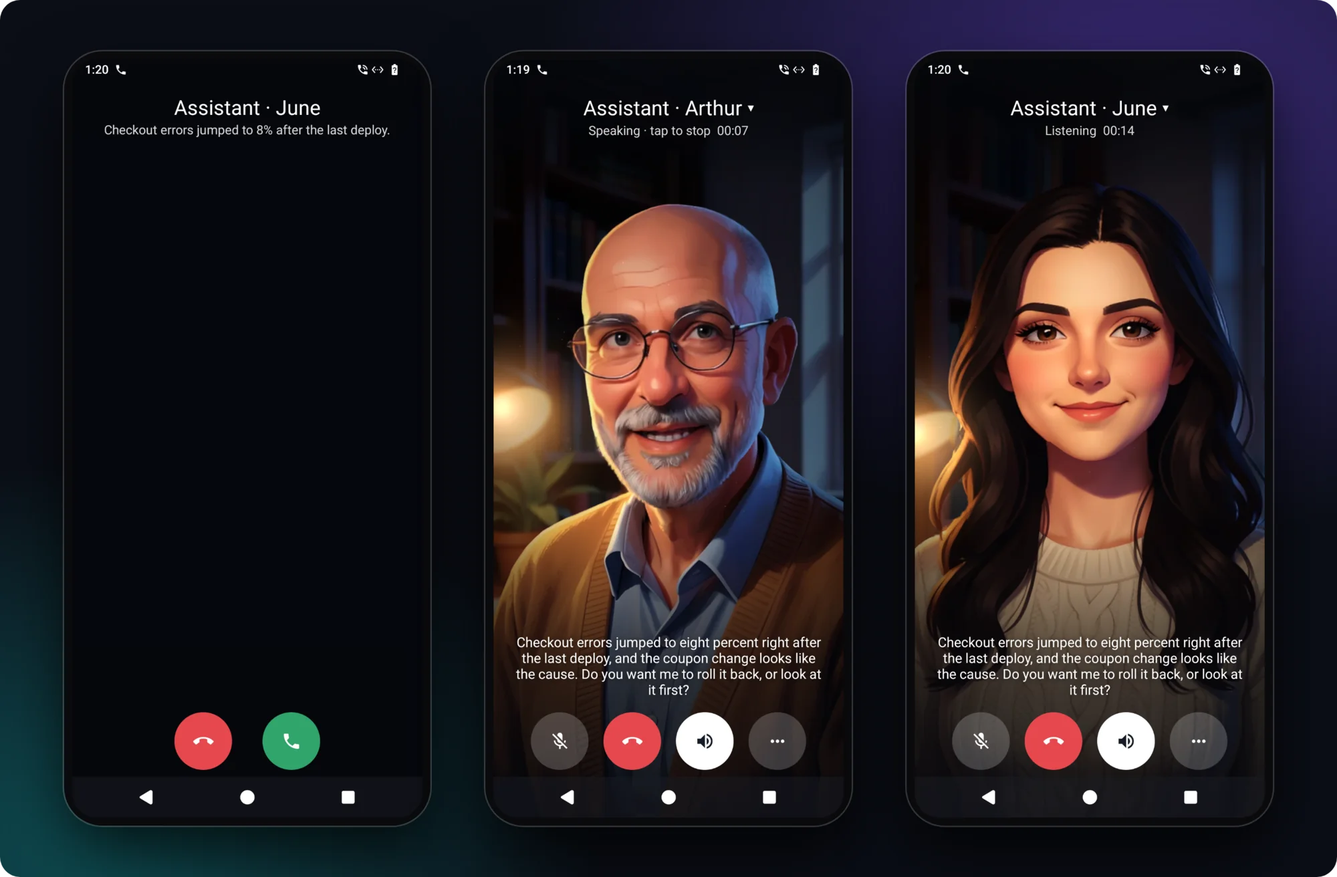
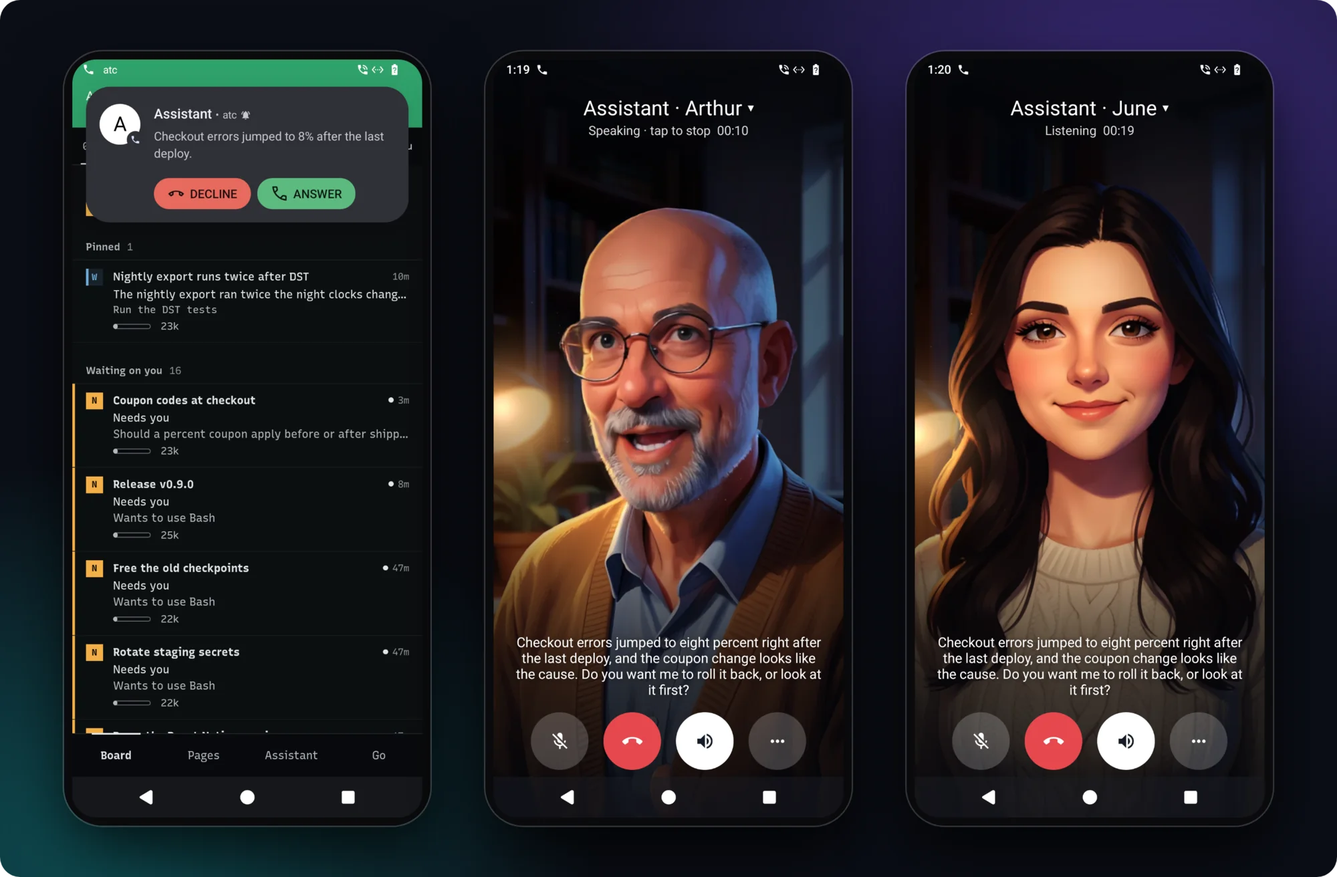
README is organised around what atc does for you: a pitch, the main screen, highlights, then install, as uv, n8n and Claude Squad do; sections follow control of every session, sessions running sessions, the call, agents, bays and pages, each with a caption. The call plays inline as an animated WebP 

diff --git a/test/demo/compose.js b/test/demo/compose.js
@@ -35,7 +35,8 @@ async (page, { raw = "http://127.0.0.1:7440/raw", out = "/tmp/atc-final", modes 
   const layouts = {
     hero: { w: 1320, h: 930, body: (r) => win(`${r}/hero.png`, 20, 20, 1280) },
     fleet: { w: 2300, h: 1400, body: (r) => win(`${r}/fleet.png`, 40, 40, 1560) + win(`${r}/desk.png`, 1000, 300, 1260) + ph(`${r}/ring-headsup.png`, 60, 500, 400) },
-    "call-ring": row(["ring-full", "arthur-2", "june-4"], 56, 400, 60),
+    "call-ring": row(["ring-headsup", "arthur-3", "june-5"], 56, 400, 60),
+    bays: { w: 1320, h: 830, body: (r) => win(`${r}/bays.png`, 20, 20, 1280) },
     assistant: solo("assist-arthur-thinking", 1400, 900),
     board: solo("board", 1560, 1040),
     transcript: solo("transcript", 1560, 1040),

diff --git a/test/demo/shots.js b/test/demo/shots.js
@@ -38,6 +38,14 @@ async (page, { base = "http://127.0.0.1:7399", out = "/tmp/atc-shots", modes = [
       await p.waitForTimeout(500);
       return [[p, "hero"]];
     },
+    // Working in one project with a peek at another: alt+shift+2 is bay 2's sessions, answerable where they are.
+    async bays(mode) {
+      const p = await open(mode, { w: 1280, h: 760 });
+      await to(p, `#/s/${by("Fix the coupon crash").id}`, 2600);
+      await p.keyboard.press("Alt+Shift+Digit2");
+      await p.waitForTimeout(900);
+      return [[p, "bays"]];
+    },
     // The fleet image's front window: @ops's session on the checkout errors and its page.
     async desk(mode) {
       const p = await open(mode, { w: 1760, h: 1000 });

diff --git a/test/demo/film.py b/test/demo/film.py
@@ -1,5 +1,5 @@
 #!/usr/bin/env python3
-"""Cuts callshot.js's recording into the README's film, once film.js has drawn test/demo/beats.json's panels:
+"""Cuts callshot.js's recording into the README's film (an mp4 with sound, and the silent animated WebP the README plays inline), once film.js has drawn test/demo/beats.json's panels:
 film.py <call dir> <film dir: callfilm.py's screen.mp4, events.json> <panels dir> <out prefix>
 
 The audio is the call's call.wav (left the caller, right the assistant, on talk.py's clock) and the phone is the device's
@@ -35,6 +35,8 @@ def cut(call, film, panels, out):
     graph += [f"[{last}]fps=25,format=yuv420p[out]", "[2:a]pan=mono|c0=0.8*c0+0.8*c1,aresample=44100,apad[a]"]
     subprocess.run(["ffmpeg", "-y", "-v", "error", *inputs, "-filter_complex", ";".join(graph), "-map", "[out]", "-map", "[a]",
                     "-c:v", "libx264", "-crf", "25", "-preset", "slow", "-c:a", "aac", "-b:a", "96k", "-movflags", "+faststart", "-t", str(span), f"{out}.mp4"], check=True)
+    subprocess.run(["ffmpeg", "-y", "-v", "error", "-i", f"{out}.mp4", "-vf", "fps=10,scale=1100:-2:flags=lanczos", "-an", "-c:v", "libwebp_anim",
+                    "-quality", "62", "-compression_level", "5", "-loop", "0", f"{out}.webp"], check=True)
 
 
 if __name__ == "__main__":

diff --git a/README.md b/README.md
@@ -1,94 +1,156 @@
 # atc
 
-**Air traffic control for Claude Code.** Every session on every machine, a team of agents working in the background, and an
-assistant you can call on the phone. All of it on your own machines, from a browser, a terminal or your phone.
+**Air traffic control for Claude Code.** Run every session on all your machines from one place, let sessions direct each other, and
+phone an assistant that keeps track of it all.
+
+Past a few parallel sessions, the hard part stops being the work. Which one is waiting on you? What did that one do while you were away?
+Which machine was it on? atc answers those at a glance, at your desk and on your phone. Agents look after
+things like your mail, alerts and invoices, and the assistant picks up when you call and rings you when something can't wait. It all runs
+on your own machines, on your own Claude plan.
 
 <picture>
   <source media="(prefers-color-scheme: dark)" srcset="docs/img/hero-dark.webp">
   <img src="docs/img/hero-light.webp" alt="atc's main screen, one window with three panes. On the left, the sessions of one project with what each did in a line. In the middle, the session Fix the coupon crash: your request, what it did as a short story with one failed test, and the edit as a diff. On the right, the page it made: 8.2% errors at the peak, 231 failed checkouts replayed and all passing, a chart of errors jumping at the deploy and falling at the rollback, and the cause.">
 </picture>
 
+*One project's sessions, what the selected one did, and the page it made. Each session's key and state are on its row.*
+
+- **[Control of every session](#control-of-every-session).** Dozens running on several machines, and you still know what each one needs and did, from any screen.
+- **[Sessions that run other sessions](#sessions-that-run-other-sessions).** They start, ask and hand work to each other, and you can step into any of them.
+- **[An assistant you talk to on the phone](#an-assistant-you-talk-to-on-the-phone).** A natural conversation that can run your sessions, your agents and whatever else you connect it to.
+- **[Agents for your own stuff](#agents-for-your-own-stuff).** Standing specialists that wake up when there's work and remember what they've learned.
+- **[A bay for each project](#a-bay-for-each-project).** Switch projects with one key and land where you left off.
+- **[Pages instead of walls of text](#pages-instead-of-walls-of-text).** A session hands you a live report, chart or inbox with working buttons.
+
 ```sh
 curl -fsSL https://github.com/zcag/atc/releases/latest/download/install.sh | sh
 ```
 
-Linux or macOS, with Claude Code signed in. One install serves one user. [More ways to install](#install).
+Linux or macOS, with Claude Code signed in. One install serves one user. [More on installing](#install).
 
 atc is an independent project. It is not affiliated with or endorsed by Anthropic.
 
-## Every session, wherever you are
+## Control of every session
 
-All your sessions from all your machines in one list, with whatever is waiting on you at the top and a one-line result on each.
-Start one in any folder on any machine, and open any of them from a browser, a terminal or your phone.
+Sessions from all your machines share one board, sorted by who needs you: what is asking you something, then what has finished,
+then what is working. Each finished turn gets a one-line result, so you can tell what happened without opening anything.
 
 <picture>
   <source media="(prefers-color-scheme: dark)" srcset="docs/img/board-dark.webp">
   <img src="docs/img/board-light.webp" alt="The board: sessions from three machines and eleven projects, grouped into pinned, waiting on you, working and parked, each with a status line, context used, steps, what it made and its age.">
 </picture>
 
-The Android app pushes when a session needs you, and you can approve or answer from the notification. Holding the side key opens
-what's waiting, even on the lock screen. Share a link or a screenshot from any app into a session, or see them all on a home
-screen widget.
+*Every session on three machines: what asks you something first, then what finished, then what is working.*
 
-<picture>
-  <source media="(prefers-color-scheme: dark)" srcset="docs/img/phones-dark.webp">
-  <img src="docs/img/phones-light.webp" alt="Four phones. The first shows the screen the side key opens: sessions waiting, one with its question answered by buttons and a text field, others asking to run a command with Allow once and Deny, and a green call button. The second shows a session's prompt, its steps and a small diff above its result. The third shows a finished report with one-tap replies, Push it and Draft the note for support. The fourth shows the report page that session made, with its figures and a chart.">
-</picture>
-
-Back at a desk, read what a session did as a transcript: each prompt and reply with the diffs, test results and commits, and search
-across the whole thing. Likely next messages are one tap away.
+- **Clear what's waiting without opening it.** Permission prompts and questions are answered right in the list, and one key jumps to any session.
+- **Read what happened instead of scrolling a terminal.** A transcript tells each turn as a short story, with diffs, test results, commits and deploys as badges. It searches the whole session and can filter to the turns that failed. Likely next messages are one tap away.
+- **Start work anywhere.** Any folder on any machine, in its own git worktree if you like, from a browser, a terminal or your phone.
+- **Nothing dies with your connection.** Close the tab and the session keeps going. After a reboot, atc brings your sessions back and tells the interrupted ones to continue.
 
 <picture>
   <source media="(prefers-color-scheme: dark)" srcset="docs/img/transcript-dark.webp">
   <img src="docs/img/transcript-light.webp" alt="A session's transcript: a word-level diff of the fix, a card for the page it made, then its report, with suggested replies above the message box.">
 </picture>
 
+*A session's turn as something to read: the diff, the page it made, its report and likely replies.*
+
+Away from your desk you have the same control. Your phone gets a push when a session needs you, and you approve or answer from the
+notification. Holding the side key opens everything that's waiting, even on the lock screen. Share a link or a screenshot from any
+app into a session, and keep your sessions on a home screen widget.
+
+<picture>
+  <source media="(prefers-color-scheme: dark)" srcset="docs/img/phones-dark.webp">
+  <img src="docs/img/phones-light.webp" alt="Four phones. The first shows the screen the side key opens: sessions waiting, one with its question answered by buttons and a text field, others asking to run a command with Allow once and Deny, and a green call button. The second shows a session's prompt, its steps and a small diff above its result. The third shows a finished report with one-tap replies, Push it and Draft the note for support. The fourth shows the report page that session made, with its figures and a chart.">
+</picture>
+
+*The side key's screen with questions answered in place, a session, a report with one-tap replies, and a page.*
+
 [Using atc](docs/using.md) · [Android app](docs/android.md) · [Several machines](docs/machines.md)
 
-## An assistant you can call
+## Sessions that run other sessions
 
-One conversation that can see everything: your sessions, your agents, what just changed. It answers on a phone call, in
-the page and on WhatsApp, and it's the same conversation on all three. Anything urgent can ring you:
+Any session can see your other sessions, read what they did, start new ones on any machine, message them and wait for their answers.
+So you can hand a big job to one session and let it organize the rest:
 
-```sh
-atc call --reason "Checkout errors jumped to 8% after the last deploy"
-```
+- A session changing your API starts another for the iOS client on your laptop, waits for its answer, and carries on.
+- A session that finds a second problem hands it off to a new session in its own worktree, and goes back to what it was doing.
+- A session that needs to know what's open reads it from an agent's list, without waking the agent.
 
-> **Assistant:** Hey, sorry to call. Checkout errors jumped to 8% right after the last deploy, and the coupon change looks like the cause. Do you want me to...
->
-> **You:** Wait, was that the only thing in the deploy?
->
-> **Assistant:** That and a copy fix. The errors all come from the coupon code.
->
-> **You:** Okay, roll it back, and have someone find out why.
->
-> **Assistant:** Rolling back now, and I've started a session on the cause. The iOS build on the laptop just finished too, so that's one less thing.
->
-> **You:** How many orders did we lose?
->
-> **Assistant:** About forty, in eleven minutes. I put the chart on your screen.
+These are not hidden subagents. Each is an ordinary session on your board, which you can open, correct or take over at any point. Every
+message says which session sent it and whether it wants a report back, so nothing has to be pieced together later. A request from
+another session doesn't count as your approval to push, deploy or send. Only the assistant can pass your go-ahead on, because you
+gave it. [What atc does not enforce](docs/security.md#what-atc-does-not-enforce) says where the limits of that are.
+
+Below is one such chain: a Grafana alert woke @ops, which worked out what broke, put the evidence on a page and rang the phone.
+
+<picture>
+  <source media="(prefers-color-scheme: dark)" srcset="docs/img/fleet-dark.webp">
+  <img src="docs/img/fleet-light.webp" alt="atc on a desktop with a lot going on: the board with dozens of sessions across three machines, more than a dozen of them waiting on you, and in front of it @ops's session on the checkout errors with the page it made, a chart of errors jumping to 8% at the last deploy. In front of those, a phone taking an incoming call from Assistant, Checkout errors jumped to 8% after the last deploy, with Decline and Answer buttons.">
+</picture>
+
+*The alert's session and its page behind the phone it rang.*
+
+[Sessions driving sessions](docs/sessions.md)
+
+## An assistant you talk to on the phone
+
+Call it from the app or a browser, with no phone number needed, or let anything that can't wait ring you. The assistant is one long
+conversation, shared with the atc page and WhatsApp, and it already knows the state of every session and machine when you say hello.
+
+<img src="docs/img/call-demo.webp" alt="A recorded call on the real call stack. The phone rings with the reason, Checkout errors jumped to 8% after the last deploy. On the call, June says what happened and is cut off mid-sentence by Wait, was that the only thing in the deploy? She plays a thinking phrase, reads what @ops found and answers. Told to roll it back and have someone find out why, she hands the rollback to one session and starts another on the cause. Asked how many orders were lost, she says about forty and puts the chart on the phone's screen. A panel beside the phone names each thing as it happens.">
+
+*A recorded call, with the transcript and notes beside the phone. [Watch it with sound](docs/img/call-demo.mp4).*
+
+**What you can get done on a call**
+
+- **Ask how things stand** and hear the answer right away, from what it already knows.
+- **Start and steer work.** Start a session on any machine, or tell a running one what to do, in your own words. Say yes to a merge, push or deploy and the session goes ahead without asking you again. Anything long runs on after you hang up, and you hear how it came out.
+- **Talk to a specialist.** Say "put @ops on" and the line moves to that agent (any you have allowed to talk), which knows what you just said. Say "back to the assistant" to return, even in the middle of its work.
+- **See things.** It says the gist and puts the page or chart on your phone's screen while you keep talking.
+- **Reach past atc.** It is a Claude Code conversation on your machine, so it has your command-line tools, scripts and MCP servers. Whatever you've connected them to (mail, calendar, your home) is one sentence away. It reads back and waits for a clear yes before sending, buying or deleting anything.
+
+The one thing it can't do is answer a session's permission prompt. Those still take a tap.
+
+**Why it feels like talking to someone**
+
+- **Cut it off any time.** It stops at once and knows exactly how much of its answer you heard.
+- **Say "mhm" or "right" while it talks.** It carries on, because those words don't count as interrupting.
+- **Pause to think.** A model listens for whether your turn sounds finished, and a sentence left hanging on "and..." keeps the turn open.
+- **No dead air.** It says a short thinking phrase while it starts, and tells you what it's doing and what it has found so far as it goes.
+- **It talks the way people do on the phone.** Short sentences, rounded numbers, no paths or ids read aloud. If a session needs you mid-call, it judges whether that's worth interrupting you for.
+- **Switch language mid-call.** With more than one installed, the voice, the transcriber and the character all change with you.
 
 <picture>
   <source media="(prefers-color-scheme: dark)" srcset="docs/img/call-ring-dark.webp">
-  <img src="docs/img/call-ring-light.webp" alt="Three phones. The first has woken to an incoming call: Assistant, June, with the reason under the name, Checkout errors jumped to 8% after the last deploy, and a red and a green button. The second is on the call with Arthur, a painted professor in glasses and a cardigan in their study, smiling as they speak. The third is on the call with June, a painted woman with long dark hair in a cream sweater, listening. Each has the name and a timer above the face, and what was said below it.">
+  <img src="docs/img/call-ring-light.webp" alt="Three phones. The first is on the session list when the call arrives: Assistant, with the reason under the name, Checkout errors jumped to 8% after the last deploy, and Decline and Answer buttons. The second is on the call with Arthur, a painted professor in glasses and a cardigan in their study, speaking. The third is on the call with June, a painted woman with long dark hair in a cream sweater, listening. Each call has the name and a timer above the face, and what was said below it.">
 </picture>
 
-You can talk over it, and it hears you. It says what it's doing while it works, starts sessions for anything long, and tells you
-how they came out after you've hung up. Calling it needs no phone number, and it runs on your machine on 2 CPU cores.
-[Calls](docs/calls.md) · [A recorded demo call](docs/img/call-demo.mp4) · [The assistant](docs/assistant.md)
+*The ring, then two of the built-in characters speaking and listening. On Android it is a real phone call: it rings on the lock screen and appears in your call log, you answer from Bluetooth or car buttons, it works on Android Auto, and it goes on hold for a SIM call.*
 
-A character stands in a room, which brings its own light, weather and mood, and any picture you upload works as one.
-
-<img src="docs/img/rooms.webp" alt="Arthur and June in five rooms: a night study with a desk lamp, a loft with rain on the window and a neon city outside, a cabin with a fire and snow outside, a library with a green lamp and a violet window, and a sunroom with plants." />
+It runs on your machine on 2 CPU cores: about 3 seconds from when you stop talking to its first word, most of that Claude's first
+token. Streaming speech recognition is the weakest part, so it sometimes has to guess at a word.
 
 <picture>
   <source media="(prefers-color-scheme: dark)" srcset="docs/img/assistant-dark.webp">
   <img src="docs/img/assistant-light.webp" alt="The assistant with a call on. On the left, the conversation: you ask it to find out why checkout is slow and to fix a build on the laptop, it starts both sessions and answers with the numbers, and the sessions it set going are listed under it. On the right, the call: Arthur, a painted professor in their study, thinking with their hand to their chin, and the sessions on this call under them.">
 </picture>
 
-## A team of agents
+*In a browser too: the conversation on the left, the call on the right, and the sessions it started on this call under both.*
 
-An agent is someone you go to for one thing. It keeps its own notes, keeps one long conversation, and wakes up when there's work.
+The character moves with both voices as it listens, thinks and speaks. Pick who the assistant is, give an agent its own person, voice and room, or use any picture you upload as a room. In public, a plain line or bars replace the face.
+
+<img src="docs/img/rooms.webp" alt="Arthur and June in five rooms: a night study with a desk lamp, a loft with rain on the window and a neon city outside, a cabin with a fire and snow outside, a library with a green lamp and a violet window, and a sunroom with plants." />
+
+[Calls](docs/calls.md) · [The assistant](docs/assistant.md)
+
+## Agents for your own stuff
+
+An agent is someone you go to for one thing: your mail, your alerts, your invoices. Each keeps one long conversation and its own
+notes, so it builds up what it knows about your stuff. It wakes on a schedule, when a check finds work, or when a webhook like
+a Grafana alert or a CI failure reaches it, and it stays out of your way the rest of the time.
+
+An agent can keep a page of what it's tracking, and the assistant answers "what's open?" from that page without waking anyone.
+These are the ones in the picture:
 
 | | Wakes | Does |
 |---|---|---|
@@ -99,46 +161,63 @@ An agent is someone you go to for one thing. It keeps its own notes, keeps one l
 | **@invoice** | every second Friday | Prepares the invoice and the email, and sends on your go |
 | **@tracker** | every 3 hours | Sweeps mail, calendar and GitHub into one list of everything open |
 
-We run agents like these every day. You make your own: each is a folder with a page of instructions and a rule for when to wake.
-
-```json
-{ "title": "Ops", "check": "./unresolved-alerts.sh", "every": "2m", "prompt": "Look into these." }
-```
-
 <picture>
   <source media="(prefers-color-scheme: dark)" srcset="docs/img/agents-dark.webp">
   <img src="docs/img/agents-light.webp" alt="Seven windows, one team. The Agents list: @email, @invoice, @ops, @reviewer, @shopping and @tracker, each with what it is keeping track of, its last result, and when it wakes next. Then each agent's own page: @shopping's options with prices and stock and Pick buttons; @ops's alerts today, three fixed and one that rang you; @email's inbox sorted with buttons to act on; @tracker's 23 open items, the 4 that cost you something first; @invoice's invoice ready for your go; and @reviewer's pull requests.">
 </picture>
 
-Between wake-ups they stay out of your way. Ask one something any time with `atc send @shopping "the towel, in grey"`, point a
-Grafana alert or a CI webhook at it, or let the assistant read what it knows: "what's open?" gets answered from @tracker's list
-without waking anyone. [Agents](docs/presets-and-agents.md)
+*The agents list, and the page each one keeps.*
 
-## Work you can see and step into
+You make your own. An agent is a folder with a page of instructions and a rule for when to wake, so you can ask a session to write
+one for you. [Agents](docs/presets-and-agents.md)
 
-A session can put anything in front of you. `atc show report.html` opens it beside the conversation and redraws it as the file
-changes: a chart, a comparison, an inbox with working buttons. Every page from every session stays one screen away, on your phone too.
+## A bay for each project
+
+Each project gets a bay, a numbered tab along the top with its own sessions and pages. atc works them out from your folders, so
+there's nothing to set up, and each tab shows how many sessions wait on you and how many are working.
+
+Its number key takes you there, back to the session, view and panes you had open, on whichever device you pick up next. Peek at
+another bay without leaving this one and answer what it's asking from there. `0` shows every bay at once.
+
+<picture>
+  <source media="(prefers-color-scheme: dark)" srcset="docs/img/bays-dark.webp">
+  <img src="docs/img/bays-light.webp" alt="Working in the shop bay, with a peek open over it at the infra bay: Rotate staging secrets asks to run a command with Allow once and Deny, Trim the Docker images has finished with a one-tap Open a PR, and two more sessions are working. The tabs along the top show each project's waiting and working counts.">
+</picture>
+
+*Working in shop with a peek at infra, where a prompt can be answered without leaving.*
+
+## Pages instead of walls of text
+
+A session can answer with a page: a chart, a comparison, a report, an inbox with working buttons. The page opens beside the
+conversation and redraws as the session edits it. You don't have to set anything up, since atc tells every session how. Just ask
+for it to show you.
+
+A page's buttons can save what you ticked, send a note back to the session, or run a command the session allowed. Every page from every
+session stays one screen away, on your phone too, so a result is still there after the conversation has moved on.
 
 <picture>
   <source media="(prefers-color-scheme: dark)" srcset="docs/img/pages-dark.webp">
   <img src="docs/img/pages-light.webp" alt="The Pages screen: every page from every session, grouped by project, with one agent's alerts page open.">
 </picture>
 
-Sessions drive a real browser too. Each gets its own tabs with your logins shared, and you watch them live next to the conversation.
-When one hits a login or a captcha, click and type in its tab and it carries on.
+*Every page from every session, by project.*
+
+Sessions can drive a real browser the same way. Each gets its own tabs with your logins shared, and you watch them live next to the
+conversation. When one hits a login or a captcha, click and type in its tab and it carries on.
 
 <picture>
   <source media="(prefers-color-scheme: dark)" srcset="docs/img/browser-dark.webp">
   <img src="docs/img/browser-light.webp" alt="A session driving a checkout page in a browser tab, shown live beside its conversation, with an address bar you can use.">
 </picture>
 
+*A session's own tab, live beside its conversation. You can click and type in it.*
+
 [Pages](docs/pages.md) · [A browser for sessions](docs/browser.md)
 
-## Keep it all running
+## Limits, spend and memory
 
-Your 5-hour and weekly limits with a projection of when you'd hit them, and spend by day, model, project and session. Memory and CPU
-per session, a week back, including the dev server a finished session left behind. After a reboot, atc brings your sessions back
-and tells the interrupted ones to continue.
+See your 5-hour and weekly limits with a projection of when you'd hit them, and spend by day, model, project and session. See
+memory and CPU per session, a week back, including the dev server a finished session left behind.
 
 <table>
 <tr>
@@ -155,19 +234,14 @@ and tells the interrupted ones to continue.
 
 [Usage and limits](docs/usage.md) · [Resources](docs/resources.md)
 
-## And a lot more
-
-<picture>
-  <source media="(prefers-color-scheme: dark)" srcset="docs/img/fleet-dark.webp">
-  <img src="docs/img/fleet-light.webp" alt="atc on a desktop with a lot going on: the board with dozens of sessions across three machines, more than a dozen of them waiting on you, and in front of it @ops's session on the checkout errors with the page it made, a chart of errors jumping to 8% at the last deploy. In front of those, a phone taking an incoming call from Assistant, Checkout errors jumped to 8% after the last deploy, with Decline and Answer buttons.">
-</picture>
+## The rest
 
 <table>
 <tr>
 <td width="50%"><picture>
   <source media="(prefers-color-scheme: dark)" srcset="docs/img/new-dark.webp">
   <img src="docs/img/new-light.webp" alt="New session: a prompt, a folder picker, presets, the machine and the engine.">
-</picture><br><b>Start anything.</b> Any folder on any machine, in its own git worktree, from a preset, on Claude, <a href="docs/models.md">a local model or opencode</a>.</td>
+</picture><br><b>Start anything.</b> From a preset, on Claude, <a href="docs/models.md">a local model or opencode</a>.</td>
 <td width="50%"><picture>
   <source media="(prefers-color-scheme: dark)" srcset="docs/img/backlog-dark.webp">
   <img src="docs/img/backlog-light.webp" alt="The backlog: tasks by stage, some you added and some suggested by sessions.">
@@ -177,7 +251,7 @@ and tells the interrupted ones to continue.
 <td width="50%"><picture>
   <source media="(prefers-color-scheme: dark)" srcset="docs/img/terminal-dark.webp">
   <img src="docs/img/terminal-light.webp" alt="A session's terminal in the page, running atc's terminal UI: the same sessions as the board, with keys for attach, new, filter and history.">
-</picture><br><b>A terminal UI.</b> <code>atc</code> is the whole list in your terminal, and <code>atc attach</code> opens any session. <a href="docs/using.md#from-a-terminal">From a terminal</a></td>
+</picture><br><b>A terminal UI.</b> The whole list in your terminal, and any session a key away. <a href="docs/using.md#from-a-terminal">From a terminal</a></td>
 <td width="50%"><picture>
   <source media="(prefers-color-scheme: dark)" srcset="docs/img/palette-dark.webp">
   <img src="docs/img/palette-light.webp" alt="The palette over the board, finding sessions and pages by a few letters.">
@@ -187,15 +261,14 @@ and tells the interrupted ones to continue.
 <td width="50%"><picture>
   <source media="(prefers-color-scheme: dark)" srcset="docs/img/settings-dark.webp">
   <img src="docs/img/settings-light.webp" alt="Settings, with its pages down the side and System open: every feature on this machine with whether it works, what is not set up, and the fix, plus a button to check everything again.">
-</picture><br><b>Setup that checks itself.</b> <code>atc doctor</code> and Settings test every feature and give the fix. <a href="docs/settings.md">Settings and doctor</a></td>
+</picture><br><b>Setup that checks itself.</b> Settings and <code>atc doctor</code> test every feature and give the fix. <a href="docs/settings.md">Settings and doctor</a></td>
 <td width="50%"><img src="docs/img/themes.webp" alt="The same board cut into six slanted bands: three themes, each in dark and light."><br><b>Themes.</b> Three, light and dark. <a href="docs/look.md">A new one is one CSS file.</a></td>
 </tr>
 </table>
 
-- **Sessions that run each other.** `atc mcp` gives any session tools to read, start and message the others. [Sessions driving sessions](docs/sessions.md)
-- **WhatsApp.** Text it, send photos and voice notes, and get answers back as voice notes. Let a few other people reach it too, in a conversation of their own. [WhatsApp](docs/whatsapp.md)
-- **Notifications from anything.** `atc notify` from a session, with one-tap replies. [Notify](docs/backlog-and-notify.md)
-- **Your phone as its home.** Digital assistant role, Quick Settings tile, Android Auto and Bluetooth for calls, QR pairing with per-device revoke. [Android app](docs/android.md)
+- **WhatsApp.** Text the assistant, send photos and voice notes, and get answers back as voice notes. Let a few other people reach it too, in a conversation of their own. [WhatsApp](docs/whatsapp.md)
+- **Notifications from anything.** Sessions can push to your phone with one-tap replies. [Notify](docs/backlog-and-notify.md)
+- **More on the phone.** Digital assistant role, Quick Settings tile, QR pairing with per-device revoke. [Android app](docs/android.md)
 - **Summaries of every finished turn**, at three lengths, on your plan or your own model. [Summaries](docs/summaries.md)
 - **Everything over HTTP and JSON.** The API behind the page is open to your scripts, and CLI commands take `-json`.
 
@@ -227,12 +300,8 @@ Everything sessions spend comes out of your own plan or API key, under your agre
 
 ## Install
 
-```sh
-curl -fsSL https://github.com/zcag/atc/releases/latest/download/install.sh | sh
-```
-
-This downloads a release for Linux or macOS, checks its checksum, installs `atc` into `~/.local/bin`,
-runs it and the assistant as services of your user, and starts `atc setup`.
+The install command at the top downloads a release for Linux or macOS, checks its checksum, installs `atc` into `~/.local/bin`, runs it and
+the assistant as services of your user, and starts `atc setup`.
 
 Or build from source (Go 1.26 or newer):
 
